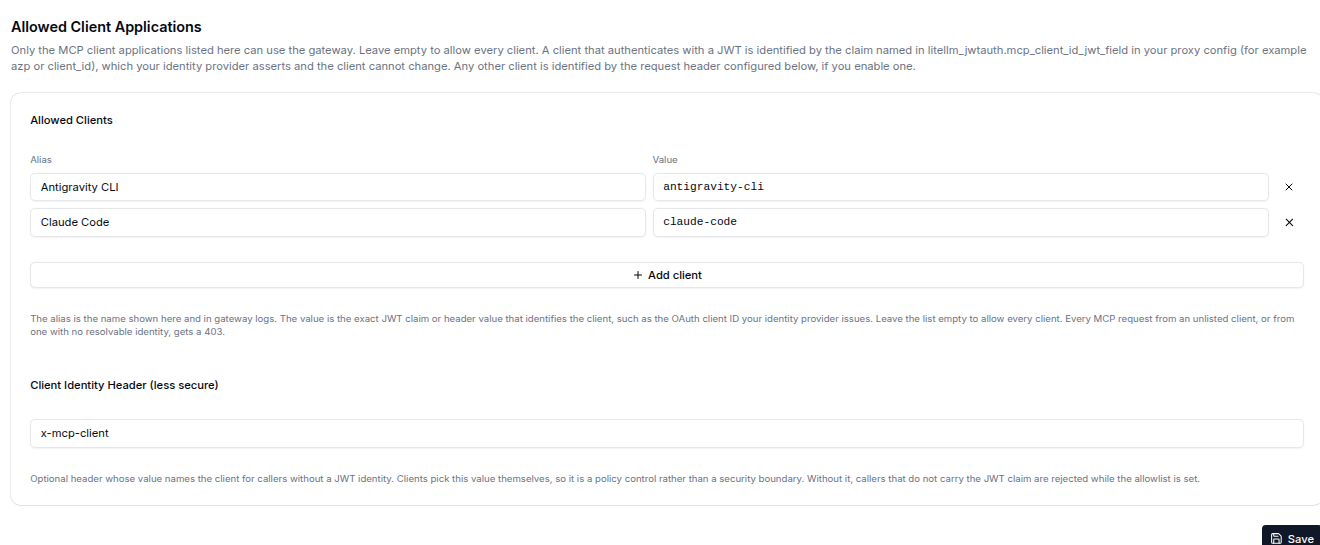
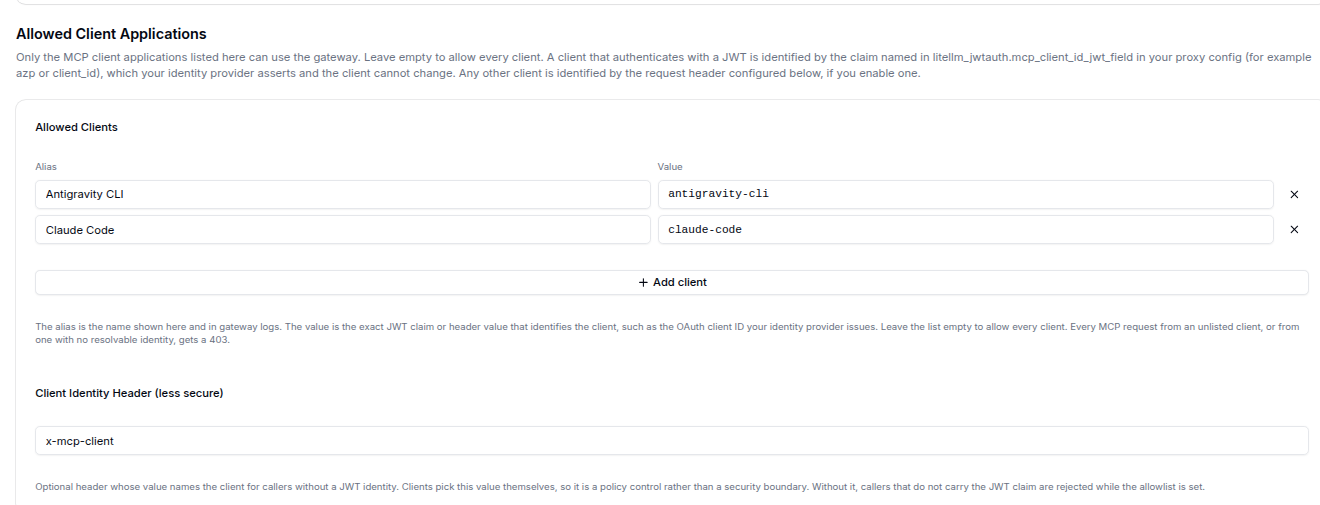
docs(mcp): refresh allowed clients screenshots and show the listed header response

diff --git a/docs/mcp_client_allowlist.md b/docs/mcp_client_allowlist.md
@@ -129,6 +129,14 @@ curl -sS -w 'HTTP %{http_code}\n' http://localhost:4000/mcp \
 ```
 
 ```text
+event: message
+data: {"jsonrpc":"2.0","id":0,"result":{"protocolVersion":"2025-06-18",...,"serverInfo":{"name":"litellm-mcp-server","version":"1.0.0"}}}
+HTTP 200
+```
+
+Drop the header from that request and the gateway names what it was looking for.
+
+```text
 {"detail":{"error":"Forbidden","details":"The request has no 'x-mcp-client' header naming the client application. This gateway only admits client applications listed in mcp_allowed_clients."}}
 HTTP 403
 ```
